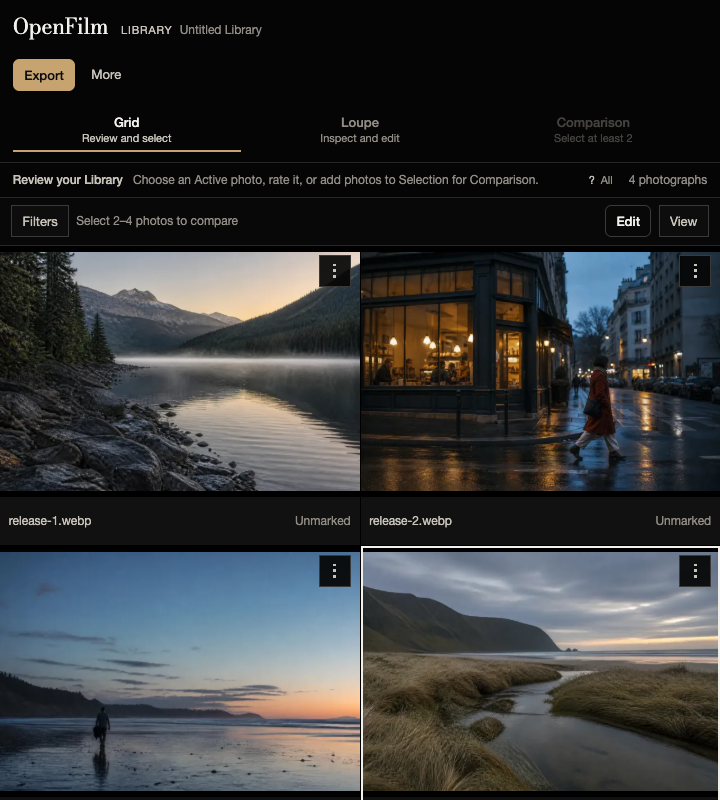
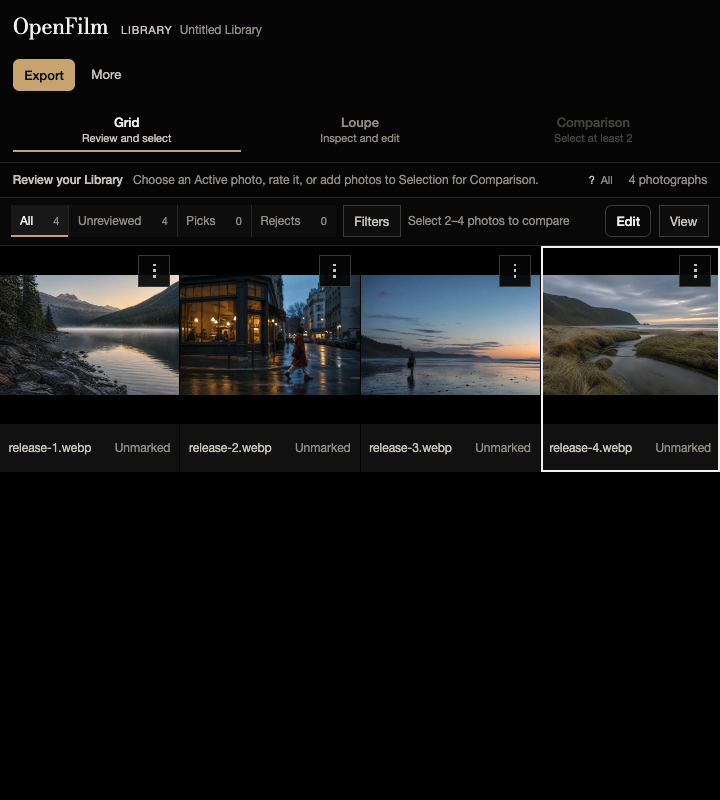
Add review status filters

diff --git a/src/library/AdaptiveLibraryWorkspace.tsx b/src/library/AdaptiveLibraryWorkspace.tsx
@@ -794,6 +794,19 @@ export function AdaptiveLibraryWorkspace(props: AdaptiveLibraryWorkspaceProps) {
     context.filter.unsupportedOnly,
     context.filter.analysisComplete,
   ].filter((value) => value !== undefined).length;
+  const reviewStatusCounts = photographs.reduce(
+    (counts, photograph) => {
+      counts[photograph.disposition] += 1;
+      return counts;
+    },
+    { pick: 0, reject: 0, unmarked: 0 },
+  );
+  const reviewStatusFilters = [
+    { count: photographs.length, label: 'All', value: undefined },
+    { count: reviewStatusCounts.unmarked, label: 'Unreviewed', value: 'unmarked' },
+    { count: reviewStatusCounts.pick, label: 'Picks', value: 'pick' },
+    { count: reviewStatusCounts.reject, label: 'Rejects', value: 'reject' },
+  ] as const;
 
   async function commit(
     next: OpenFilmLibraryDocument,
@@ -1384,6 +1397,20 @@ export function AdaptiveLibraryWorkspace(props: AdaptiveLibraryWorkspaceProps) {
 
       {photographs.length > 0 ? (
         <div className="workstation-toolbar" data-workstation-background>
+          <div aria-label="Review status filter" className="workstation-review-filter" role="group">
+            {reviewStatusFilters.map((filter) => (
+              <button
+                aria-label={`${filter.label}, ${filter.count} photograph${filter.count === 1 ? '' : 's'}`}
+                aria-pressed={context.filter.disposition === filter.value}
+                key={filter.label}
+                onClick={() => setFilter({ disposition: filter.value })}
+                type="button"
+              >
+                <span>{filter.label}</span>
+                <output>{filter.count}</output>
+              </button>
+            ))}
+          </div>
           <details className="workstation-filters">
             <summary>Filters{activeFilterCount ? <span>{activeFilterCount}</span> : null}</summary>
             <div className="workstation-filters__panel">
@@ -1719,8 +1746,22 @@ export function AdaptiveLibraryWorkspace(props: AdaptiveLibraryWorkspaceProps) {
               </div>
             ) : visible.length === 0 ? (
               <div className="workstation-empty">
-                <h2>No photographs match</h2>
-                <p>Clear the active filters to return to the full Grid.</p>
+                <h2>
+                  {context.filter.disposition === 'reject'
+                    ? 'No rejected photographs'
+                    : context.filter.disposition === 'pick'
+                      ? 'No Picks match'
+                      : context.filter.disposition === 'unmarked'
+                        ? 'Review complete'
+                        : 'No photographs match'}
+                </h2>
+                <p>
+                  {context.filter.disposition === 'reject'
+                    ? 'Photographs appear here when you mark them as Rejects. Source files are never deleted.'
+                    : context.filter.disposition === 'unmarked'
+                      ? 'Every photograph has a review mark. Show all photographs to keep working.'
+                      : 'Show all photographs to return to the full Grid.'}
+                </p>
                 <Button
                   onClick={() =>
                     setContext((current) => ({
@@ -1731,7 +1772,7 @@ export function AdaptiveLibraryWorkspace(props: AdaptiveLibraryWorkspaceProps) {
                   size="small"
                   variant="outline"
                 >
-                  Clear filters
+                  Show all photographs
                 </Button>
               </div>
             ) : (

diff --git a/src/library/AdaptiveLibraryWorkspace.test.tsx b/src/library/AdaptiveLibraryWorkspace.test.tsx
@@ -119,6 +119,40 @@ describe('Adaptive Library workstation', () => {
     expect(screen.getByLabelText('Quick keyboard shortcuts')).toHaveTextContent('Pick');
   });
 
+  it('filters the Grid to Rejects from the main review toolbar', () => {
+    const options = props();
+    options.snapshot = {
+      ...options.snapshot,
+      library: {
+        ...options.snapshot.library!,
+        photographs: [
+          { ...photo('1'), disposition: 'pick' },
+          { ...photo('2'), disposition: 'reject' },
+          photo('3'),
+        ],
+      },
+    };
+    render(<AdaptiveLibraryWorkspace {...options} />);
+
+    const statusFilter = screen.getByRole('group', { name: 'Review status filter' });
+    expect(
+      within(statusFilter).getByRole('button', { name: 'Rejects, 1 photograph' }),
+    ).toHaveAttribute('aria-pressed', 'false');
+
+    fireEvent.click(within(statusFilter).getByRole('button', { name: 'Rejects, 1 photograph' }));
+
+    expect(screen.getByRole('button', { name: /2\.jpg\. Source photograph/ })).toBeInTheDocument();
+    expect(
+      screen.queryByRole('button', { name: /1\.jpg\. Source photograph/ }),
+    ).not.toBeInTheDocument();
+    expect(
+      within(statusFilter).getByRole('button', { name: 'Rejects, 1 photograph' }),
+    ).toHaveAttribute('aria-pressed', 'true');
+
+    fireEvent.click(within(statusFilter).getByRole('button', { name: 'All, 3 photographs' }));
+    expect(screen.getByRole('button', { name: /1\.jpg\. Source photograph/ })).toBeInTheDocument();
+  });
+
   it('compares up to four photographs when Selection contains more', () => {
     const options = props();
     options.snapshot = {

diff --git a/src/app.css b/src/app.css
@@ -525,6 +525,39 @@ code {
   text-transform: uppercase;
   letter-spacing: 0.06em;
 }
+.workstation-review-filter {
+  display: flex;
+  align-items: center;
+  gap: 1px;
+  background: var(--color-line);
+}
+.workstation-review-filter button {
+  min-height: 2rem;
+  border: 0;
+  padding: 0.35rem 0.55rem;
+  display: flex;
+  align-items: center;
+  gap: 0.45rem;
+  background: #0d0d0d;
+  color: var(--color-muted);
+  cursor: pointer;
+  font-size: var(--type-caption);
+}
+.workstation-review-filter button:hover {
+  color: var(--color-ink);
+}
+.workstation-review-filter button[aria-pressed='true'] {
+  background: var(--color-surface-raised);
+  color: var(--color-ink);
+  box-shadow: inset 0 -2px var(--color-accent);
+}
+.workstation-review-filter output {
+  min-width: 1.2rem;
+  color: var(--color-muted);
+  font-size: var(--type-micro);
+  font-variant-numeric: tabular-nums;
+  text-align: right;
+}
 .workstation-filters {
   position: relative;
   flex: 0 0 auto;
@@ -1411,6 +1444,17 @@ code {
   }
   .workstation-toolbar {
     align-items: center;
+  }
+  .workstation-review-filter {
+    width: 100%;
+  }
+  .workstation-review-filter button {
+    min-width: 0;
+    flex: 1 1 0;
+    justify-content: center;
+  }
+  .workstation-review-filter output {
+    min-width: 0;
   }
   .workstation-filters__panel {
     grid-template-columns: 1fr;
